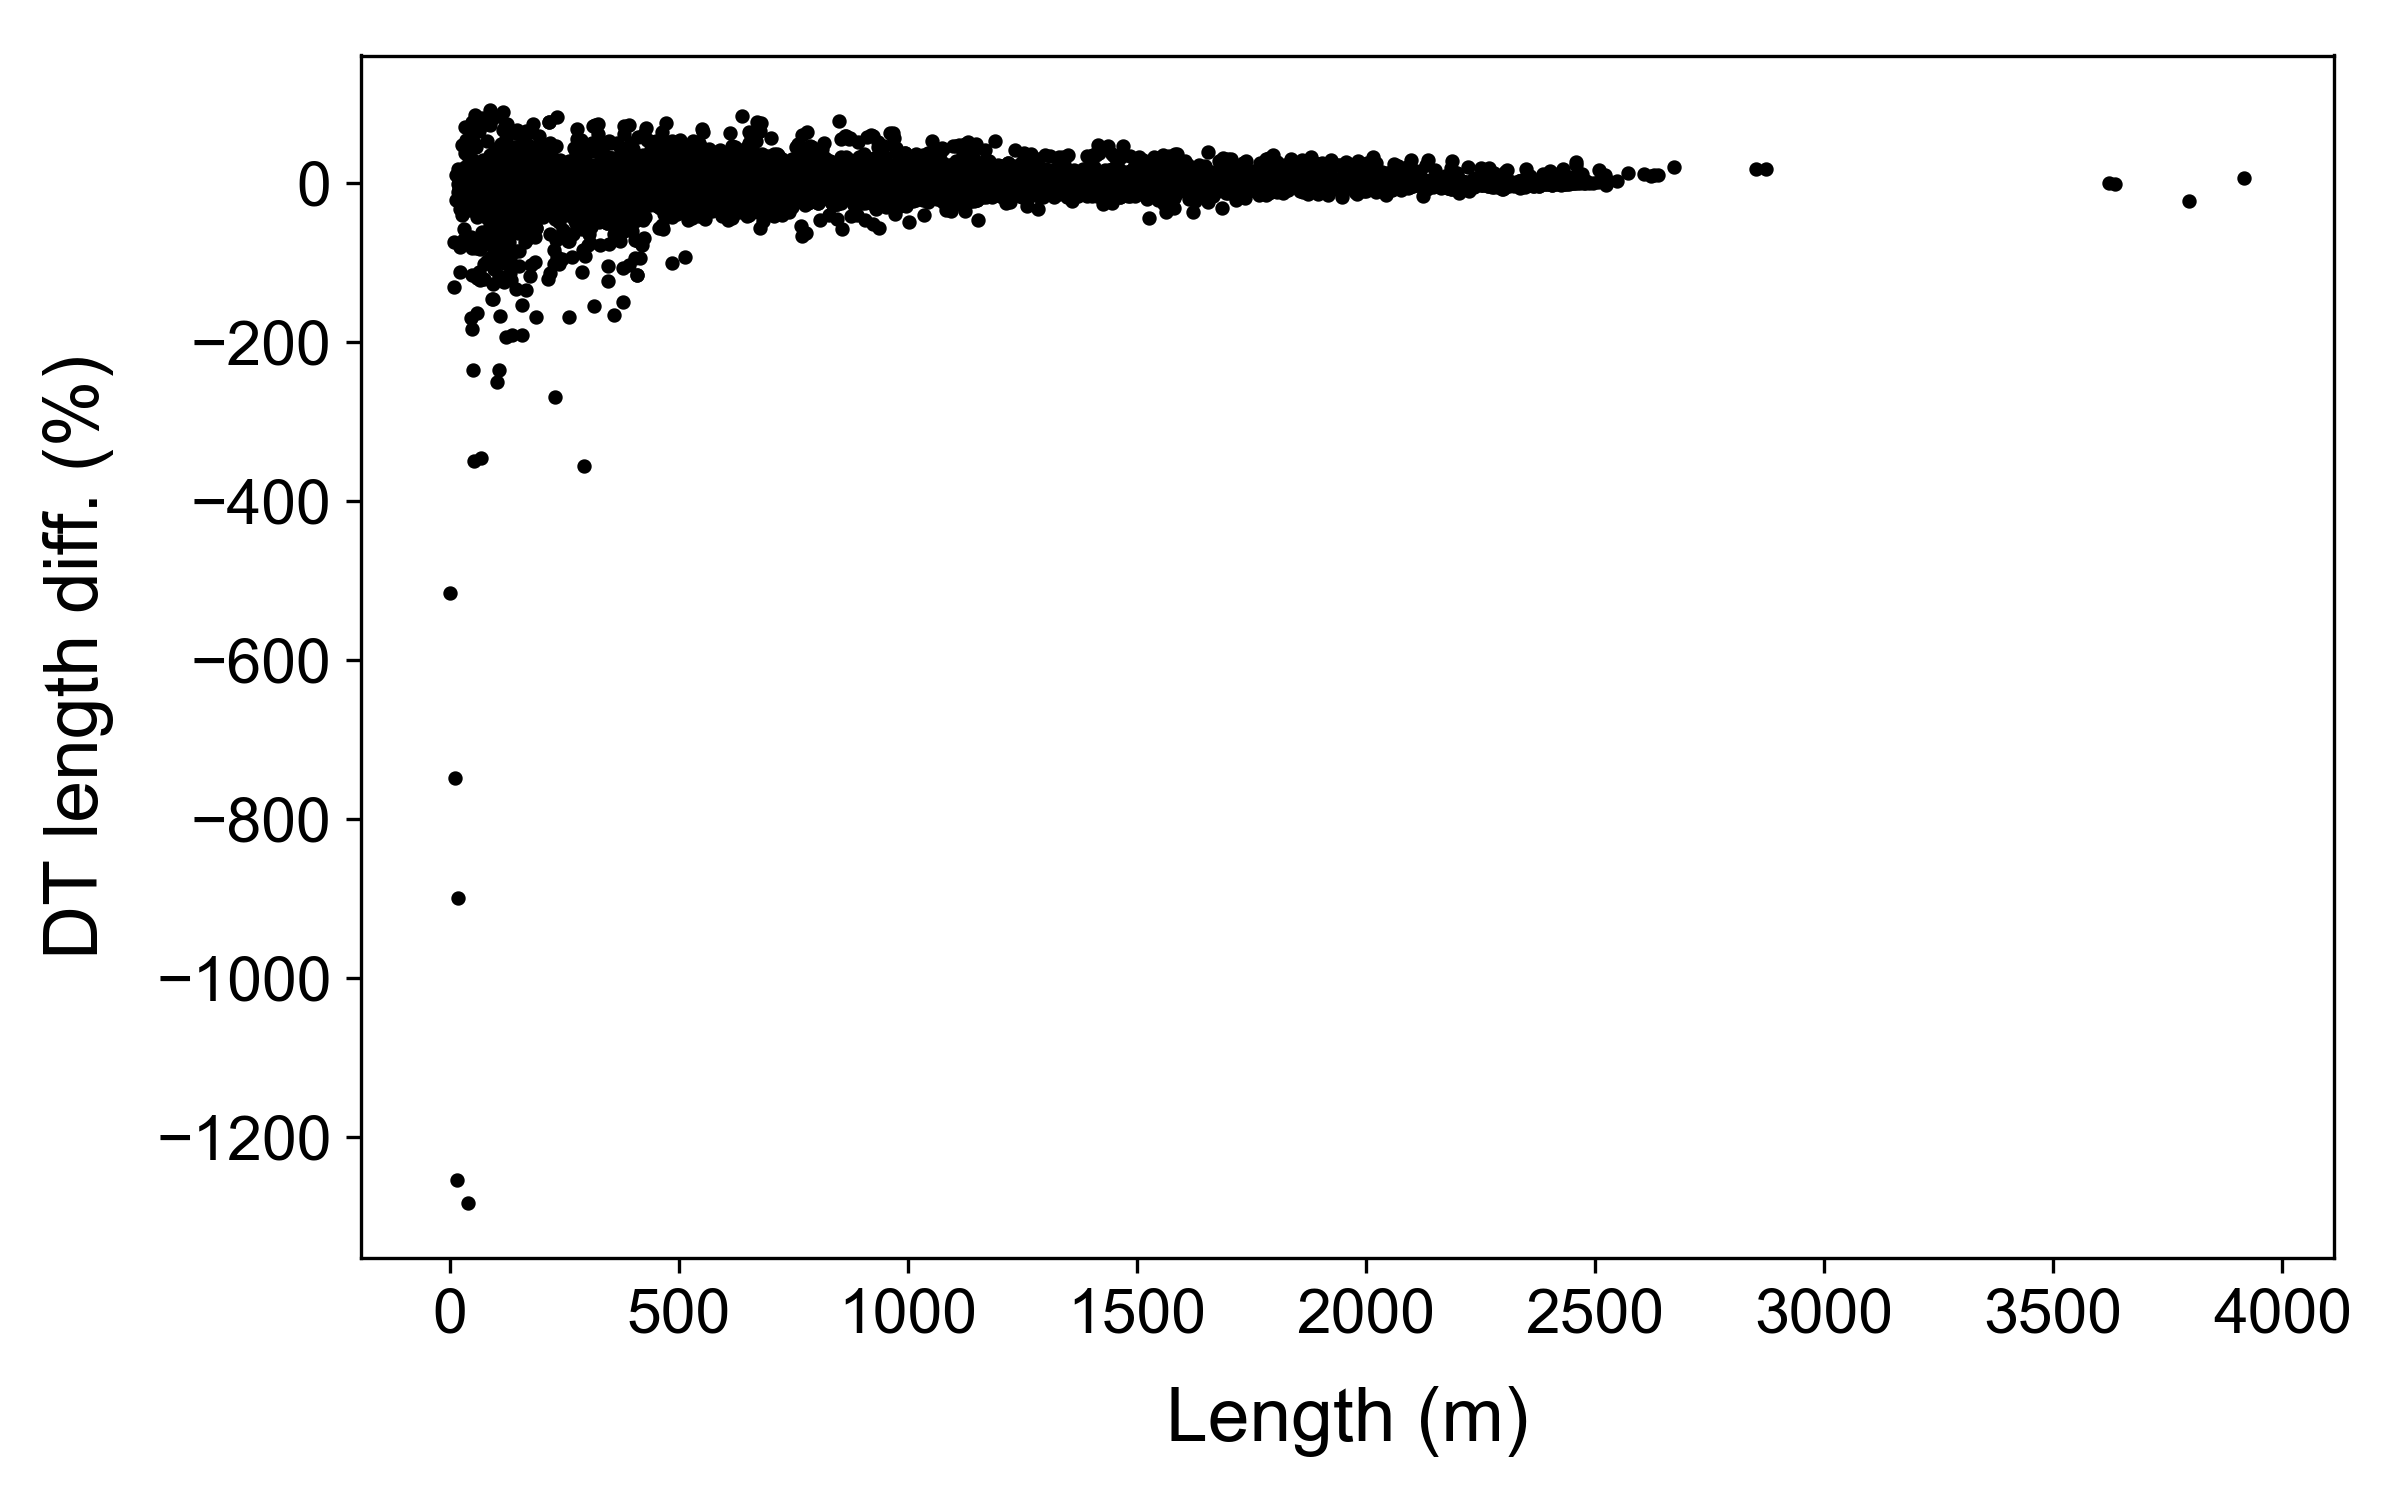
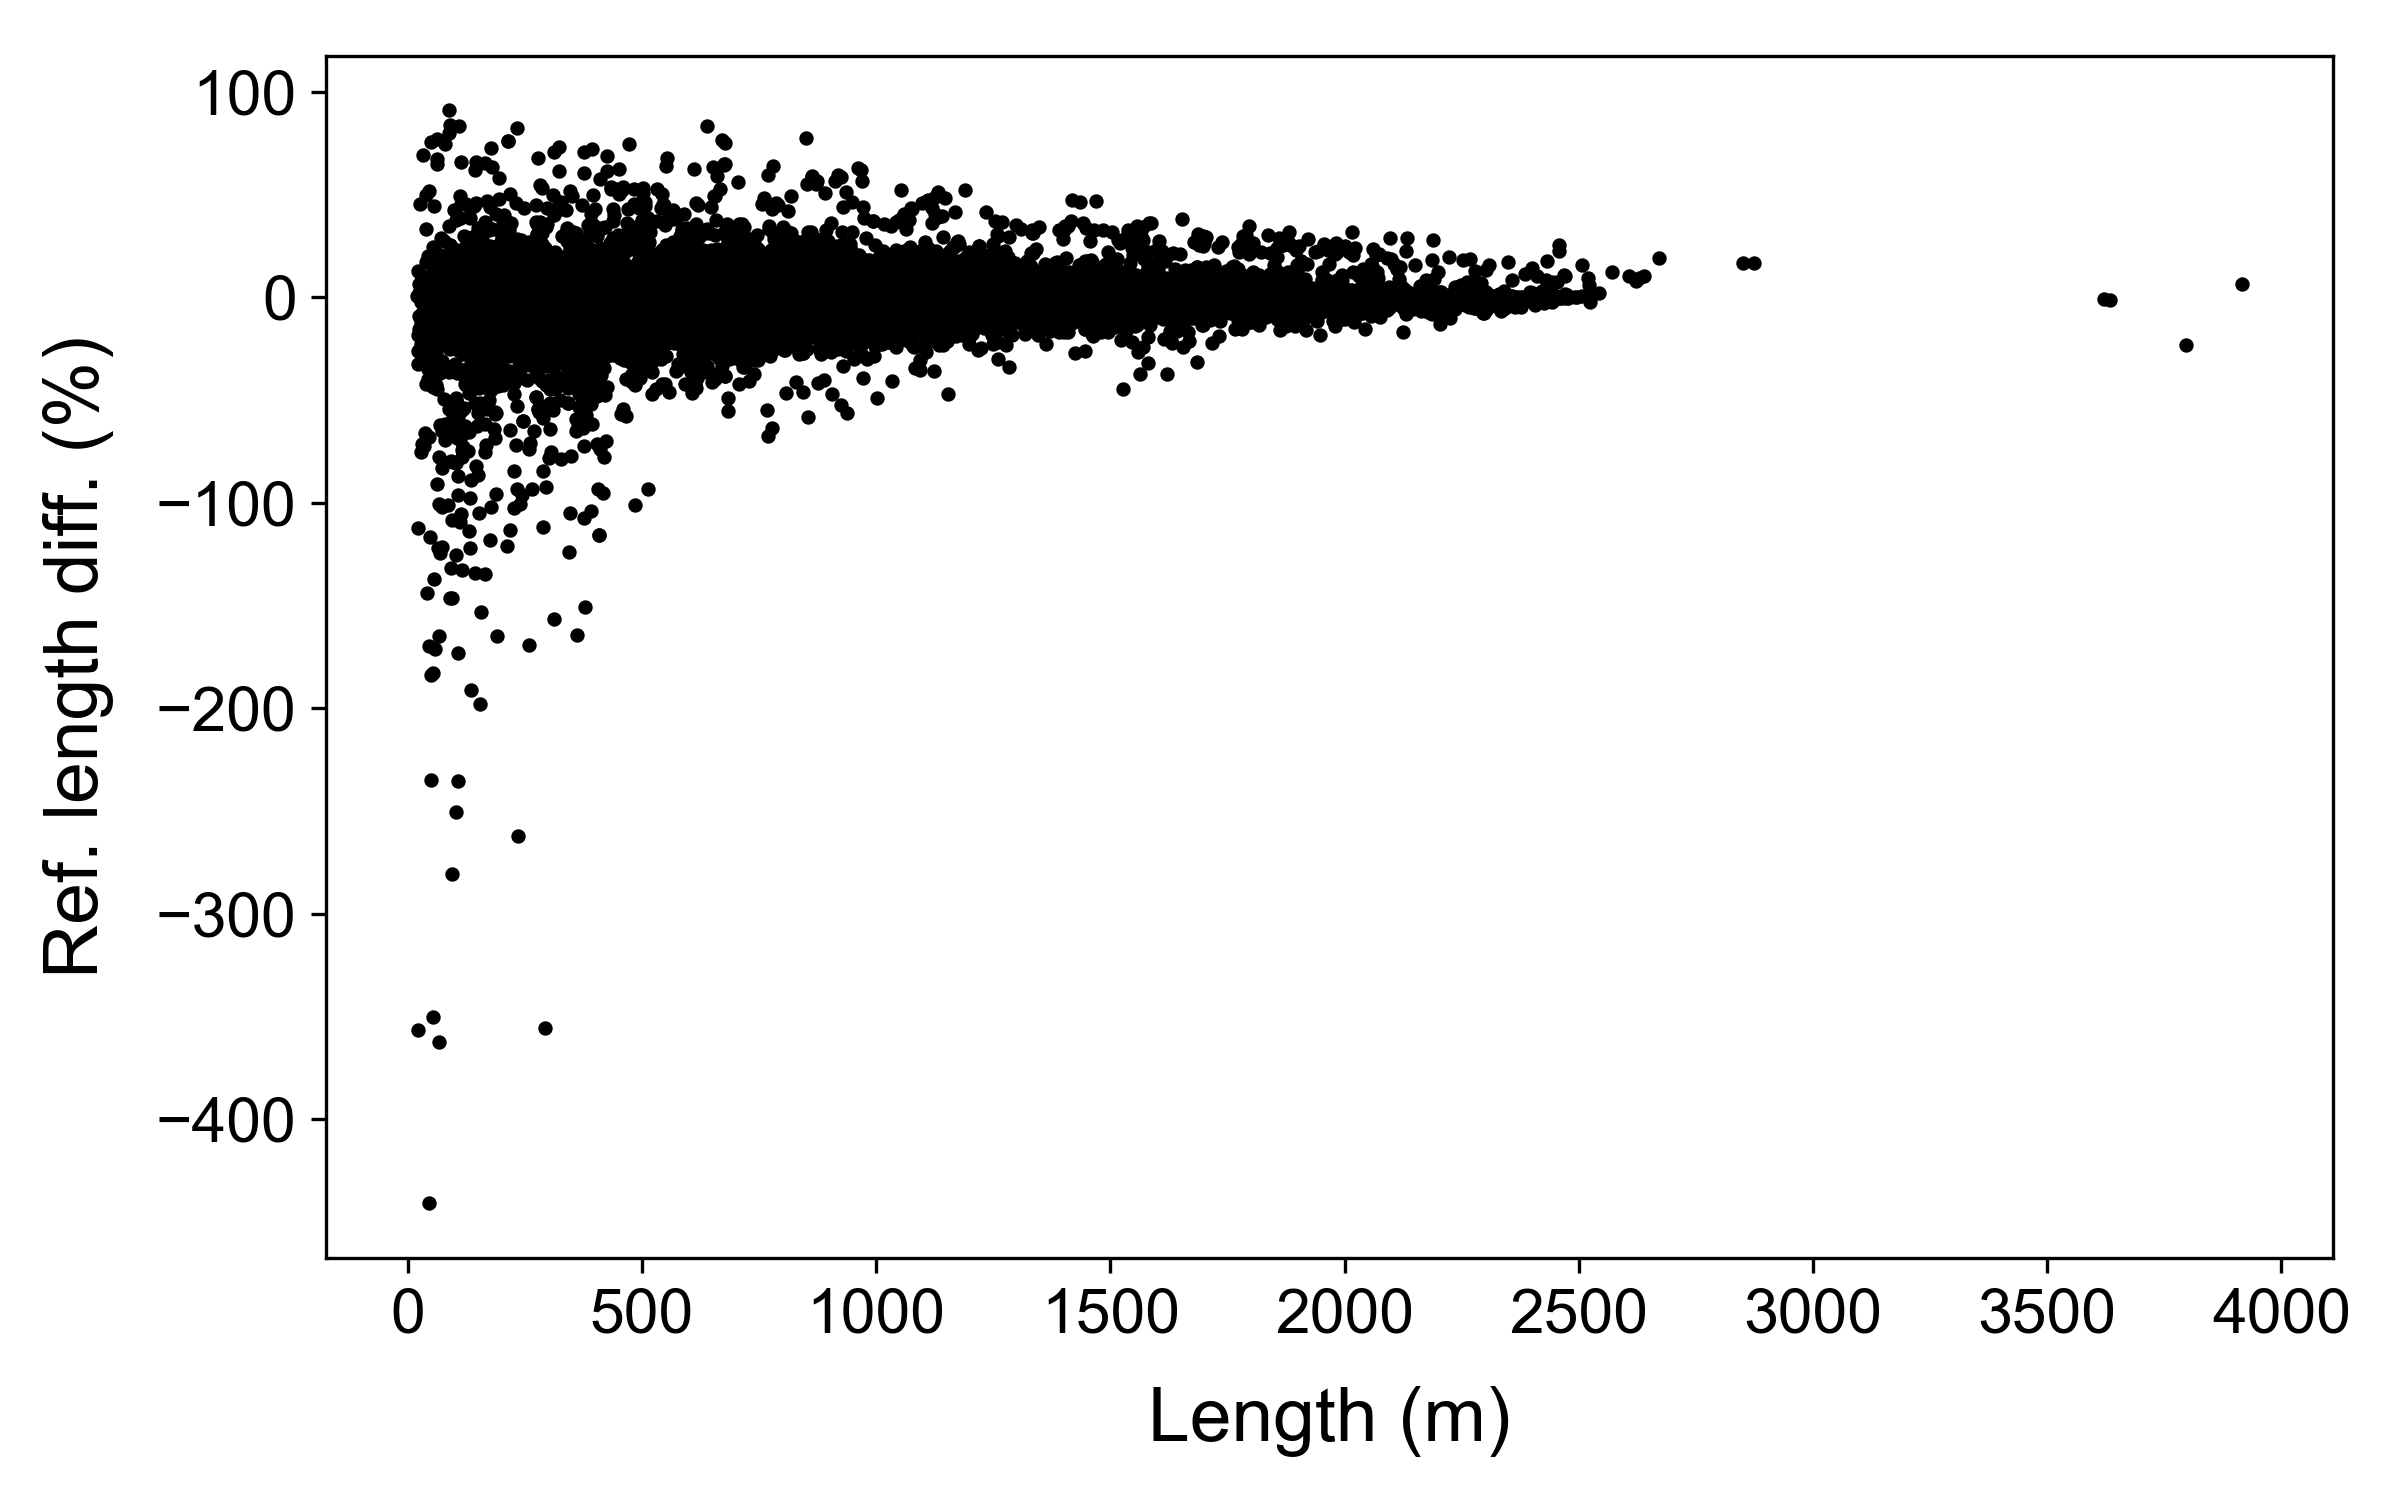
export new plots of path lengths

diff --git a/src/scripts_analysis/commutes_paths_stats.py b/src/scripts_analysis/commutes_paths_stats.py
@@ -23,8 +23,7 @@ grid = grid[['xyind', 'grid_geom', 'grid_centr']]
 grid.head()
 
 #%% read paths
-# paths =  gpd.read_file('outputs/YKR_commutes_output/home_paths_all.gpkg', layer='paths')
-paths =  gpd.read_file('outputs/YKR_commutes_output/home_paths.gpkg', layer='run_2_set_1')
+paths =  gpd.read_file('outputs/YKR_commutes_output/home_paths.gpkg', layer='run_3_all')
 paths['noises'] = [ast.literal_eval(noises) for noises in paths['noises']]
 paths['th_noises'] = [ast.literal_eval(th_noises) for th_noises in paths['th_noises']]
 #%% count of all paths
@@ -48,8 +47,6 @@ s_paths.head(2)
 s_paths = pstats.add_dt_length_diff_cols(s_paths, valueignore=-9999)
 s_paths.head(2)
 
-#%% reproject paths to epsg 3879 (to match epsg of Helsinki polygon)
-s_paths = s_paths.to_crs(from_epsg(3879))
 #%% add bool col for within hel = yes/no
 s_paths = pstats.add_bool_within_hel_poly(s_paths)
 s_paths.head(2)
@@ -100,19 +97,19 @@ pstats.calc_basic_stats(s_paths, 'DT_len_diff_rat', weight=None, min_length=20, 
 
 #%% plot DT len diff stats
 s_paths_filt = pstats.filter_by_min_value(s_paths, 'length', 20)
+s_paths_filt = pstats.filter_by_max_value(s_paths_filt, 'DT_len_diff', 7000)
 fig = plots.scatterplot(s_paths_filt, xcol='length', ycol='DT_len', yignore=-9999, xlabel='Length (m)', ylabel='Ref. length (m)')
-# fig.savefig('plots/paths_len_ref_len_scatter.png', format='png', dpi=300)
+fig.savefig('plots/paths_len_ref_len_scatter.png', format='png', dpi=300)
 fig = plots.scatterplot(s_paths_filt, xcol='length', ycol='DT_len_diff', yignore=-9999, xlabel='Length (m)', ylabel='Ref. length diff. (m)')
-# fig.savefig('plots/paths_DT_len_diff_scatter.png', format='png', dpi=300)
+fig.savefig('plots/paths_DT_len_diff_scatter.png', format='png', dpi=300)
 fig = plots.boxplot(s_paths_filt, col='DT_len_diff', valignore=-9999, label='Ref. length diff. (m)')
-# fig.savefig('plots/paths_DT_len_diff_boxplot.png', format='png', dpi=300)
+fig.savefig('plots/paths_DT_len_diff_boxplot.png', format='png', dpi=300)
 fig = plots.scatterplot(s_paths_filt, xcol='length', ycol='DT_len_diff_rat', yignore=-9999, xlabel='Length (m)', ylabel='Ref. length diff. (%)')
-# fig.savefig('plots/paths_DT_len_diff_rat_scatter.png', format='png', dpi=300)
+fig.savefig('plots/paths_DT_len_diff_rat_scatter.png', format='png', dpi=300)
 
 #%% export paths with stats to file
 s_paths.columns
-s_paths.to_file('outputs/YKR_commutes_output/home_paths.gpkg', layer='run_2_stats', driver='GPKG')
-
+s_paths.to_file('outputs/YKR_commutes_output/home_paths.gpkg', layer='run_3_stats', driver='GPKG')
 
 #%%
 len(s_paths[s_paths['DT_len_diff'] == -9999])

diff --git a/src/utils/path_stats.py b/src/utils/path_stats.py
@@ -24,6 +24,7 @@ def map_pt_path_props_to_null(df):
     paths = df.copy()
     print('PT_path_walk_paths', len(paths.query("to_pt_mode == 'WALK'")))
     paths['length'] = paths.apply(lambda row: -9999 if row['to_pt_mode'] == 'WALK' else row['length'], axis=1)
+    paths['DT_len'] = paths.apply(lambda row: -9999 if row['to_pt_mode'] == 'WALK' else row['DT_len'], axis=1)
     paths['DT_len_diff'] = paths.apply(lambda row: -9999 if row['to_pt_mode'] == 'WALK' else row['DT_len_diff'], axis=1)
     paths['noises'] = paths.apply(lambda row: -9999 if row['to_pt_mode'] == 'WALK' else row['noises'], axis=1)
     paths['th_noises'] = paths.apply(lambda row: -9999 if row['to_pt_mode'] == 'WALK' else row['th_noises'], axis=1)
@@ -71,7 +72,15 @@ def filter_by_min_value(data_df, var_col, min_value):
     count_before = len(df)
     df = df.query(f'''{var_col} > {min_value}''')
     count_after = len(df)
-    print('Filtered out:', count_before-count_after, 'paths with:', var_col, 'less than:', min_value)
+    print('Filtered out:', count_before-count_after, 'paths with:', var_col, 'lower than:', min_value)
+    return df
+
+def filter_by_max_value(data_df, var_col, max_value):
+    df = data_df.copy()
+    count_before = len(df)
+    df = df.query(f'''{var_col} < {max_value}''')
+    count_after = len(df)
+    print('Filtered out:', count_before-count_after, 'paths with:', var_col, 'higher than:', max_value)
     return df
 
 def calc_basic_stats(data_gdf, var_col, valuemap=None, valueignore=None, weight=None, min_length=None, percs=None, col_prefix='', printing=False):
